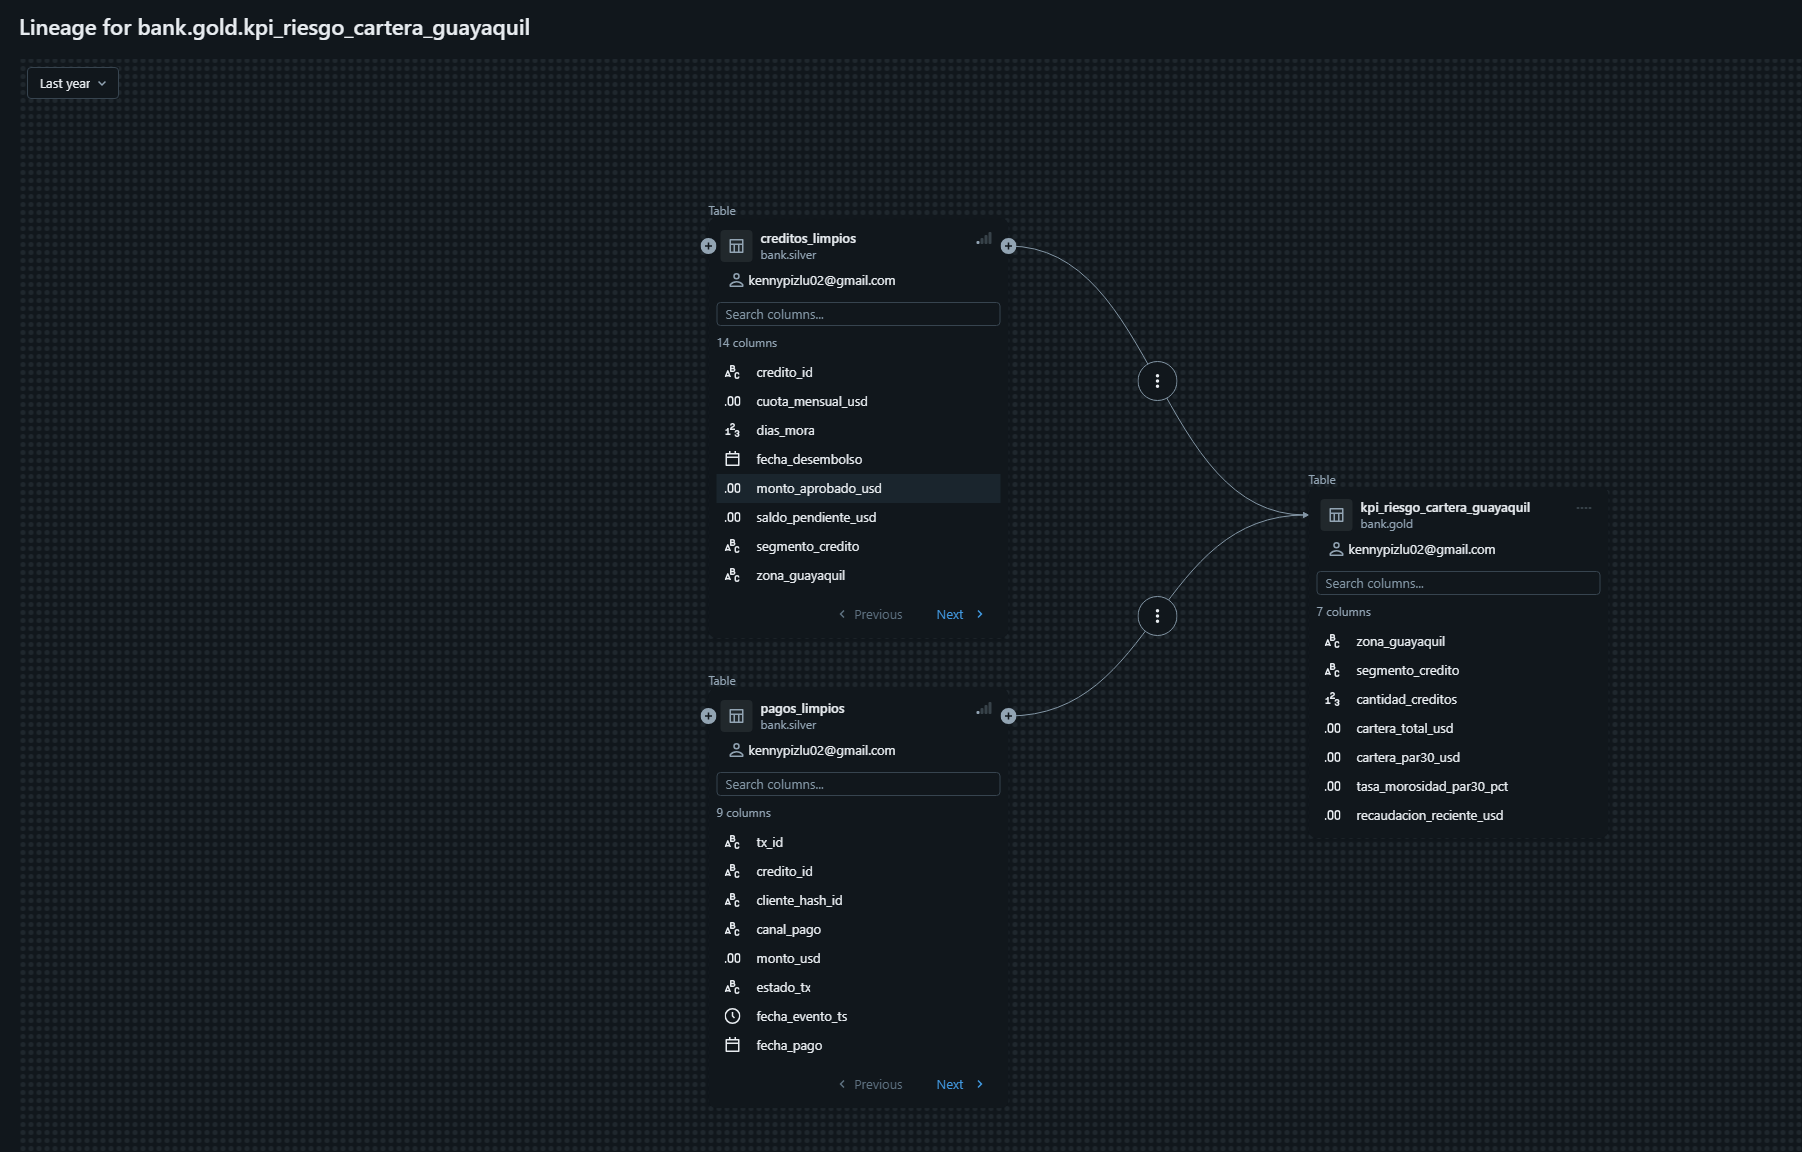
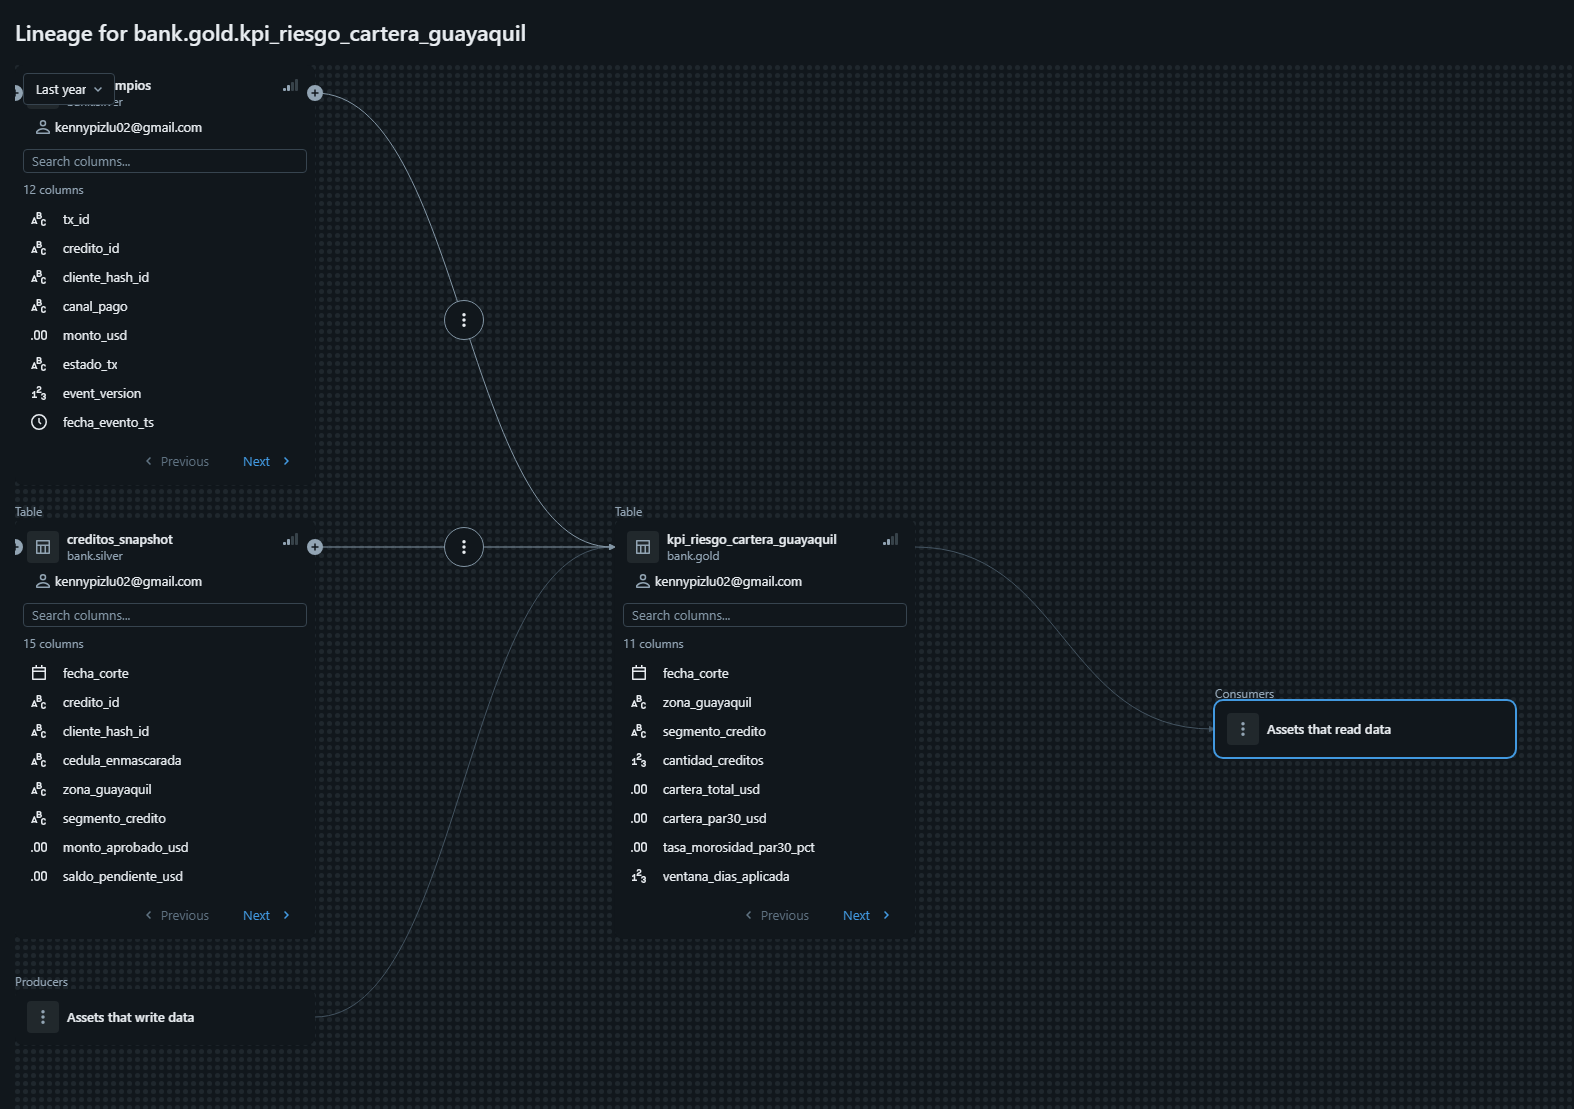
modify files

diff --git a/README.md b/README.md
@@ -1,15 +1,16 @@
 # Guayaquil Banking Lakehouse: Riesgo de Cartera
 
-Pipeline **End-to-End en Databricks (Arquitectura Medallion)** diseñado para resolver desafíos reales de ingeniería de datos en la banca ecuatoriana: consolidación de pagos multicanal, cálculo de cartera en riesgo (mora mayor a 30 días) por zonas de Guayaquil, detección de transacciones atípicas y protección de datos personales conforme a la **LOPDP**.
+Pipeline **End-to-End en Databricks (Arquitectura Medallion)** diseñado para resolver desafíos reales de ingeniería de datos en la banca ecuatoriana: consolidación incremental de pagos multicanal, seguimiento histórico de cartera en riesgo (PAR 30) por zonas de Guayaquil, alertas operativas basadas en reglas de negocio y seudonimización de datos personales conforme a la **LOPDP**.
 
 ---
 
 ## Problema de Negocio
 
-Ante el crecimiento acelerado del crédito de consumo y microcrédito en Guayaquil, las áreas de Riesgos Crediticio enfrentan tres retos:
-1. **Integridad contable en ingesta multicanal:** Los pagos provenientes de App Móvil, Banca Web, Agencias, ATMs y Corresponsales de Barrio pueden llegar duplicados, con montos inválidos o con cambios tardíos de estado.
-2. **Visibilidad oportuna del riesgo geográfico:** Necesidad de monitorear la tasa de morosidad mayor a 30 días por sector de Guayaquil y alertar transacciones anómalas (por ejemplo, pagos inusuales de madrugada en corresponsales).
-3. **Cumplimiento regulatorio y privacidad (LOPDP):** Impedir la exposición de cédulas de identidad en las capas de analítica y garantizar trazabilidad completa para auditorías de la Superintendencia de Bancos.
+Ante el crecimiento sostenido del crédito de consumo y microcrédito en Guayaquil, las áreas de Riesgo Crediticio, Cobranzas y Operaciones enfrentan tres retos diarios:
+
+1. **Integridad contable en ingesta multicanal:** Los pagos provenientes de App Móvil, Banca Web, Agencias, ATMs y Corresponsales de Barrio pueden llegar duplicados, con montos inválidos, con inconsistencias entre el crédito y el titular, o con actualizaciones tardías de estado (`PENDIENTE` a `CONFIRMADO`).
+2. **Visibilidad oportuna del riesgo y la recaudación:** Necesidad de monitorear la evolución diaria de la tasa de morosidad mayor a 30 días (**PAR 30**) por sector de Guayaquil y segmento de crédito, contrastarla contra ventanas claras de recaudación confirmada y alertar operaciones sospechosas que requieran revisión operativa.
+3. **Cumplimiento regulatorio y privacidad (LOPDP):** Evitar la exposición de cédulas de identidad en texto plano en las capas analíticas y mantener trazabilidad completa de lotes, rechazos y estados históricos para auditorías de la Superintendencia de Bancos.
 
 ---
 
@@ -18,56 +19,71 @@ Ante el crecimiento acelerado del crédito de consumo y microcrédito en Guayaqu
 ```mermaid
 flowchart LR
     subgraph SRC["1. Fuentes / Landing (Unity Catalog Volume)"]
-        A1[("Maestro Créditos<br/>JSON")]
-        A2[("Lotes Pagos Multicanal<br/>JSON Incremental")]
+        A1[("Snapshots Créditos<br/>JSON por Fecha de Corte")]
+        A2[("Lotes Pagos Multicanal<br/>JSON por Lote Diario")]
     end
 
     subgraph BRZ["2. Capa Bronze (Delta Lake)"]
-        B1["bronze.creditos_raw<br/>+ Metadatos auditoría"]
-        B2["bronze.pagos_raw<br/>Append inmutable"]
+        B1["bronze.creditos_raw<br/>Histórico por _batch_date"]
+        B2["bronze.pagos_raw<br/>Ingesta incremental (replaceWhere)"]
+        B3["bronze.control_lotes<br/>Auditoría de ejecución"]
     end
 
     subgraph SLV["3. Capa Silver (Calidad + LOPDP + ACID)"]
-        S1["silver.creditos_limpios<br/>Hash SHA-256 + Enmascarado"]
-        S2["silver.pagos_limpios<br/>Deduplicación + MERGE INTO"]
-        SQ["silver.quarantine_pagos<br/>Registros inválidos aislados"]
+        S1["silver.creditos_snapshot<br/>Histórico por fecha_corte + HMAC-SHA-256"]
+        S2["silver.pagos_limpios<br/>Integridad Referencial + Dedup + MERGE"]
+        SQ["silver.quarantine_pagos<br/>Histórico acumulativo de rechazos"]
     end
 
     subgraph GLD["4. Capa Gold (Liquid Clustering + BI)"]
-        G1["kpi_riesgo_cartera_guayaquil<br/>PAR 30 por Zona y Segmento"]
-        G2["kpi_canales_pago<br/>Recaudación y Tasa de Éxito"]
-        G3["alertas_transacciones_atipicas<br/>Detección de Anomalías"]
+        G1["gold.kpi_riesgo_cartera_guayaquil<br/>PAR 30 por fecha_corte y Ventanas de Recaudo"]
+        G2["gold.kpi_canales_pago<br/>Confirmado vs. Pendiente (Incremental)"]
+        G3["gold.alertas_reglas_negocio<br/>Señales Operativas por Estado y Prioridad"]
     end
 
     A1 --> B1
     A2 --> B2
+    B1 --> B3
+    B2 --> B3
     B1 --> S1
-    B2 -->|Válidos| S2
-    B2 -->|Montos <= 0 o PII nulo| SQ
+    B2 -->|Validación sintáctica y referencial| S2
+    S1 -.->|Cruce titular-crédito| S2
+    B2 -->|Rechazos de calidad o titularidad| SQ
     S1 --> G1
     S2 --> G1
     S2 --> G2
     S1 --> G3
     S2 --> G3
-```
-
 ---
 
 ## Desarrollo Técnico de Ingenieria de Datos
 
 | Desafío Bancario | Solución Implementada en Databricks | Impacto |
 | :--- | :--- | :--- |
-| **Idempotencia en reprocesos** | `MERGE INTO` sobre `tx_id` en Delta Lake + deduplicación con `ROW_NUMBER()`. | Re-ejecutar un lote nocturno fallido genera **cero duplicados** y actualiza estados tardíos. |
-| **Tolerancia a datos corruptos** | Patrón de **Cuarentena** (`silver.quarantine_pagos`) con columna `motivo_rechazo`. | Registros con montos negativos o cédulas nulas se aíslan para auditoría sin detener el cierre diario. |
-| **Privacidad (LOPDP Ecuador)** | Hashing `SHA-256` con *salt* para llaves de cruce + enmascaramiento (`******5678`) y eliminación de cédula completa en Silver. | Los analistas y dashboards consumen datos confiables sin exposición de identificaciones. |
-| **Rendimiento de consultas** | **Liquid Clustering** (`CLUSTER BY`) en tablas Gold + mantenimiento con `OPTIMIZE`. | Elimina el sobreparticionamiento y el problema de *small files* en consultas por zona y fecha. |
-| **Gobernanza y Auditoría** | **Unity Catalog** (modelo de 3 niveles + Volumes) y **Delta Time Travel**. | Linaje automático columna a columna y capacidad de auditar estados históricos exactos. |
+| **Idempotencia en reprocesos** | Lectura estricta del archivo correspondiente a fecha_proceso, escritura atómica por lote con replaceWhere sobre _batch_date y registro en bronze.control_lotes | Evita reprocesar archivos históricos en cada corrida y mantiene trazabilidad auditable de los lotes ingeridos. |
+| **Idempotencia y actualizaciones tardías** | Deduplicación determinística con ROW_NUMBER() (ordenada por event_version, updated_at, prioridad de estado y reglas explícitas de desempate) seguida de MERGE INTO completo sobre tx_id. | Absorbe cambios tardíos de estado o correcciones de atributos y garantiza cero duplicados ante reintentos del Job. |
+| **Calidad e integridad** | Validaciones sintácticas y cruce contra silver.creditos_snapshot para verificar que el titular corresponda al credito_id. Los registros inválidos se almacenan de forma acumulativa en silver.quarantine_pagos con archivo de origen, lote y motivo_rechazo. | Impide atribuir pagos a clientes equivocados y conserva el historial de rechazos para investigación sin detener el cierre diario. |
+| **Privacidad y seudonimización (LOPDP)** | Seudonimización de cédulas con HMAC-SHA-256 utilizando clave gestionada en Databricks Secrets (con parámetro de respaldo para desarrollo), enmascaramiento parcial (******5678) y eliminación de la cédula plana desde Silver. | Permite cruces determinísticos y consumo analítico sin exponer identificaciones en texto plano, complementable con RBAC en Unity Catalog. |
+| **Rigor temporal en KPIs y alertas** | Snapshots históricos de PAR 30 por fecha_corte (carga incremental por fecha), métricas separadas de recaudación (día de corte, ventana parametrizable de 7 días y acumulada) y alertas basadas en reglas de negocio diferenciando transacciones confirmadas y pendientes. | Habilita el análisis de evolución diaria de la morosidad y entrega señales claras y auditables para revisión operativa. |
+| **Optimización y gobernanza** | Liquid Clustering (CLUSTER BY), compactación con OPTIMIZE, Unity Catalog (modelo de 3 niveles y Volumes) y Delta Time Travel. | Evita el sobreparticionamiento y el problema de small files, asegurando linaje automático y auditoría histórica. |
 
 ---
 
 ## Estrategia de Datos
 
-Debido al sigilo bancario el pipeline utiliza un generador determinístico (`nb_generador_datos_guayaquil.py`) calibrado con los segmentos oficiales del sistema financiero ecuatoriano (**Consumo, Microcrédito, Productivo y Vivienda**, en USD) y sectores reales de Guayaquil, inyectando deliberadamente duplicados, registros corruptos y anomalías operativas para validar la resiliencia del flujo.
+Debido al sigilo bancario y la LOPDP, el pipeline utiliza un generador determinístico (nb_generador_datos_guayaquil.py) calibrado con los segmentos oficiales del sistema financiero ecuatoriano (Consumo, Microcrédito, Productivo y Vivienda, en USD) y sectores reales de Guayaquil en dos fechas de corte consecutivas (2026-11-23 y 2026-11-24), donde los pagos confirmados del primer día inciden directamente en la evolución del saldo y los días de mora del día siguiente.
+
+Para comprobar la resiliencia del flujo, los lotes incluyen escenarios controlados:
+
+ - Actualización tardía de estado y corrección de canal en una transacción entre dos días (PENDIENTE versión 1 a CONFIRMADO versión 2).
+
+ - Registros duplicados con empate exacto de marcas de tiempo para validar el desempate determinístico.
+
+ - Errores de calidad (montos negativos, cédulas nulas) y una inconsistencia referencial (pago con crédito válido y cédula válida perteneciente a otro cliente) distribuidos en ambos días para comprobar la cuarentena histórica.
+
+ - Transacciones de alto monto en horario de madrugada y operaciones pendientes de liquidación para validar la priorización de alertas operativas.
+
+El volumen del conjunto sintético (500 créditos y 660 pagos en dos cortes diarios) está dimensionado para validar corrección funcional, integridad referencial, eventos tardíos e idempotencia de extremo a extremo. No pretende simular un benchmark de gran volumen, aunque los patrones implementados (carga incremental con replaceWhere/MERGE, Liquid Clustering y OPTIMIZE) responden al diseño requerido para escalar en entornos productivos.
 
 ---
 
@@ -88,4 +104,6 @@ Debido al sigilo bancario el pipeline utiliza un generador determinístico (`nb_
 
 1. Importar los notebooks de la carpeta `notebooks/` en un workspace de **Databricks Free Edition**.
 2. Ejecutar la creación de schemas (`bronze`, `silver`, `gold`) y el Volume `landing_zone` dentro del catálogo `bank`.
-3. Crear un **Databricks Job** encadenando los notebooks del `01` al `04` (con el parámetro `fecha_proceso = 2026-11-24` en la ingesta Bronze) y ejecutar el flujo.
+3. Ejecutar nb_generador_datos_guayaquil.py para generar los lotes diarios de créditos y pagos (2026-11-23 y 2026-11-24) en el Volume de aterrizaje.
+4. Configurar un Databricks Job encadenando los notebooks de Bronze, Silver y Gold con el parámetro global fecha_proceso (y opcionalmente ventana_dias = 7). Ejecutar el Job primero con fecha_proceso = 2026-11-23 y luego con fecha_proceso = 2026-11-24
+5. Opcionalmente, re-ejecutar cualquiera de las fechas
